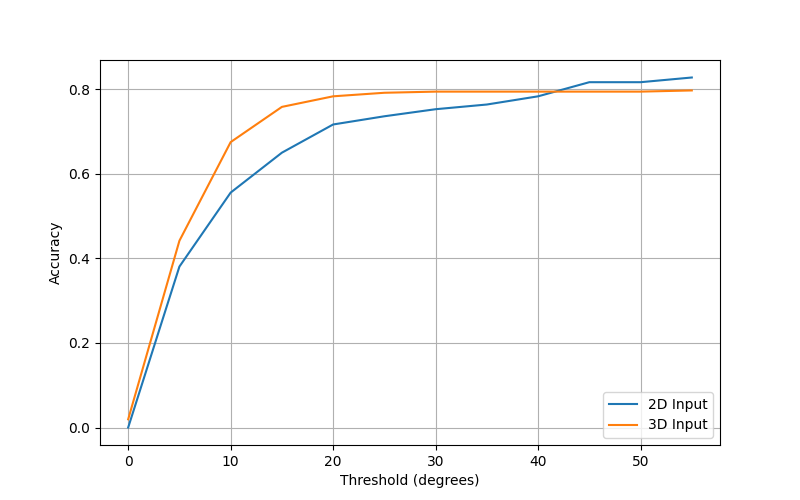
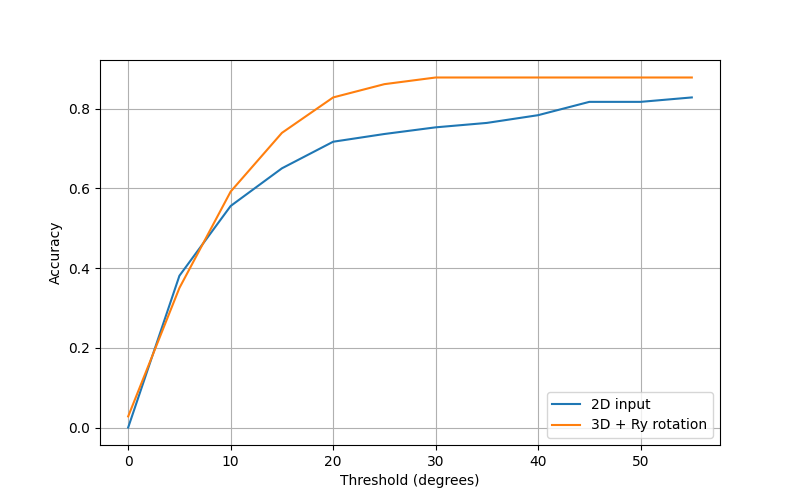
commit

diff --git a/viewpoint-estimation-3d/geom-loss/train.py b/viewpoint-estimation-3d/geom-loss/train.py
@@ -24,8 +24,6 @@ def get_arguments():
 args = get_arguments()
 
 def preprocess(x, y):
-    #x = tf.keras.preprocessing.image.random_rotation(x, rg=10, row_axis=0, col_axis=1, channel_axis=2, 
-    #                   fill_mode='constant', cval=0, interpolation_order=1)
     x = tf.cast(x, dtype=tf.float32)
     x = tf.divide(x, tf.constant(255.0, dtype=tf.float32))
     return x, y
@@ -91,6 +89,8 @@ def render_train_view(viewpoint):
     img = img[54+tx:454+tx, 63+ty:463+ty]
     img = cv.resize(img, INPUT_SIZE, interpolation=cv.INTER_AREA)
     img = np.repeat(img[:,:, np.newaxis], 3, axis=-1)
+    img = tf.keras.preprocessing.image.random_rotation(img, rg=10, row_axis=0, col_axis=1, channel_axis=2, 
+                       fill_mode='constant', cval=0, interpolation_order=1)
     label = one_hot_encoding(theta)
     return img, label
 
@@ -151,7 +151,7 @@ def test_step(images, labels):
 
 # Define checkpoint manager to save model weights
 checkpoint = tf.train.Checkpoint(model=model, optimizer=optimizer)
-checkpoint_dir = "/scratch/hnkmah001/phd-projects/viewpoint-estimation-3d/geom-loss/checkpoints/"
+checkpoint_dir = "/scratch/hnkmah001/phd-projects/viewpoint-estimation-3d/geom-loss-in-plane-rotation/checkpoints/"
 if not os.path.isdir(checkpoint_dir):
     os.mkdir(checkpoint_dir)
 manager = tf.train.CheckpointManager(checkpoint, directory=checkpoint_dir, max_to_keep=20)
@@ -188,8 +188,8 @@ for epoch in range(args.epochs):
         
         # Save logs with TensorBoard Summary
         if step == 0:
-            train_logdir = "/scratch/hnkmah001/phd-projects/viewpoint-estimation-3d/geom-loss/logs/train"
-            val_logdir = "/scratch/hnkmah001/phd-projects/viewpoint-estimation-3d/geom-loss/logs/val"
+            train_logdir = "/scratch/hnkmah001/phd-projects/viewpoint-estimation-3d/geom-loss-in-plane-rotation/logs/train"
+            val_logdir = "/scratch/hnkmah001/phd-projects/viewpoint-estimation-3d/geom-loss-in-plane-rotation/logs/val"
             train_summary_writer = tf.summary.create_file_writer(train_logdir)
             val_summary_writer = tf.summary.create_file_writer(val_logdir)
         

diff --git a/viewpoint-estimation-3d/geom-loss/result.py b/viewpoint-estimation-3d/geom-loss/result.py
@@ -8,28 +8,33 @@ thresholds = [theta for theta in range(0, 60, 5)]
 medErr_geom_loss = 8.0
 acc_geom_loss = [0.0000, 0.3806, 0.5556, 0.6500, 0.7167, 0.7361, 0.7528, 0.7639, 0.7833, 0.8167, 0.8167, 0.8278]
 
-medErr_geom_loss_3d = 6.0
-acc_geom_loss_3d = [0.0194, 0.4417, 0.6750, 0.7583, 0.7833, 0.7917, 0.7944, 0.7944, 0.7944, 0.7944, 0.7944, 0.7972]
+#medErr_geom_loss_3d = 6.0
+#acc_geom_loss_3d = [0.0194, 0.4417, 0.6750, 0.7583, 0.7833, 0.7917, 0.7944, 0.7944, 0.7944, 0.7944, 0.7944, 0.7972]
+
+medErr_geom_loss_3d_inplane_rotation = 8.0
+acc_geom_loss_3d_inplane_rotation = [0.0278, 0.3500, 0.5917, 0.7389, 0.8278, 0.8611, 0.8778, 0.8778, 0.8778, 0.8778, 0.8778, 0.8778]
+
 plt.figure(figsize=[8, 5])
 #plt.title("Accuracy")
 plt.ylabel("Accuracy")
 plt.xlabel("Threshold (degrees)")
 
-plt.plot(thresholds, acc_geom_loss, label="2D Input")
-plt.plot(thresholds, acc_geom_loss_3d, label="3D Input")
+plt.plot(thresholds, acc_geom_loss, label="2D input")
+#plt.plot(thresholds, acc_geom_loss_3d, label="3D input")
+plt.plot(thresholds, acc_geom_loss_3d_inplane_rotation, label="3D + Ry rotation")
 plt.legend(loc="lower right")
 plt.grid(True)
 plt.savefig("accuracy.png")
 
 
-medErrs = [medErr_geom_loss, medErr_geom_loss_3d]
+medErrs = [medErr_geom_loss, medErr_geom_loss_3d_inplane_rotation]
 
 plt.figure(figsize=[4, 4])
 #plt.title("Median Error")
 plt.ylabel("Median Error (degrees)")
-plt.bar(0, medErrs[0],  label="2D Input")
-plt.bar(1, medErrs[1],  label="3D Input")
-
+plt.bar(0, medErrs[0],  label="2D")
+#plt.bar(1, medErrs[1],  label="3D")
+plt.bar(1, medErrs[1],  label="3D + In-plane rotation")
 plt.xticks([0, 1], [])
 plt.legend(loc="upper right")
 plt.savefig("mederr.png")
